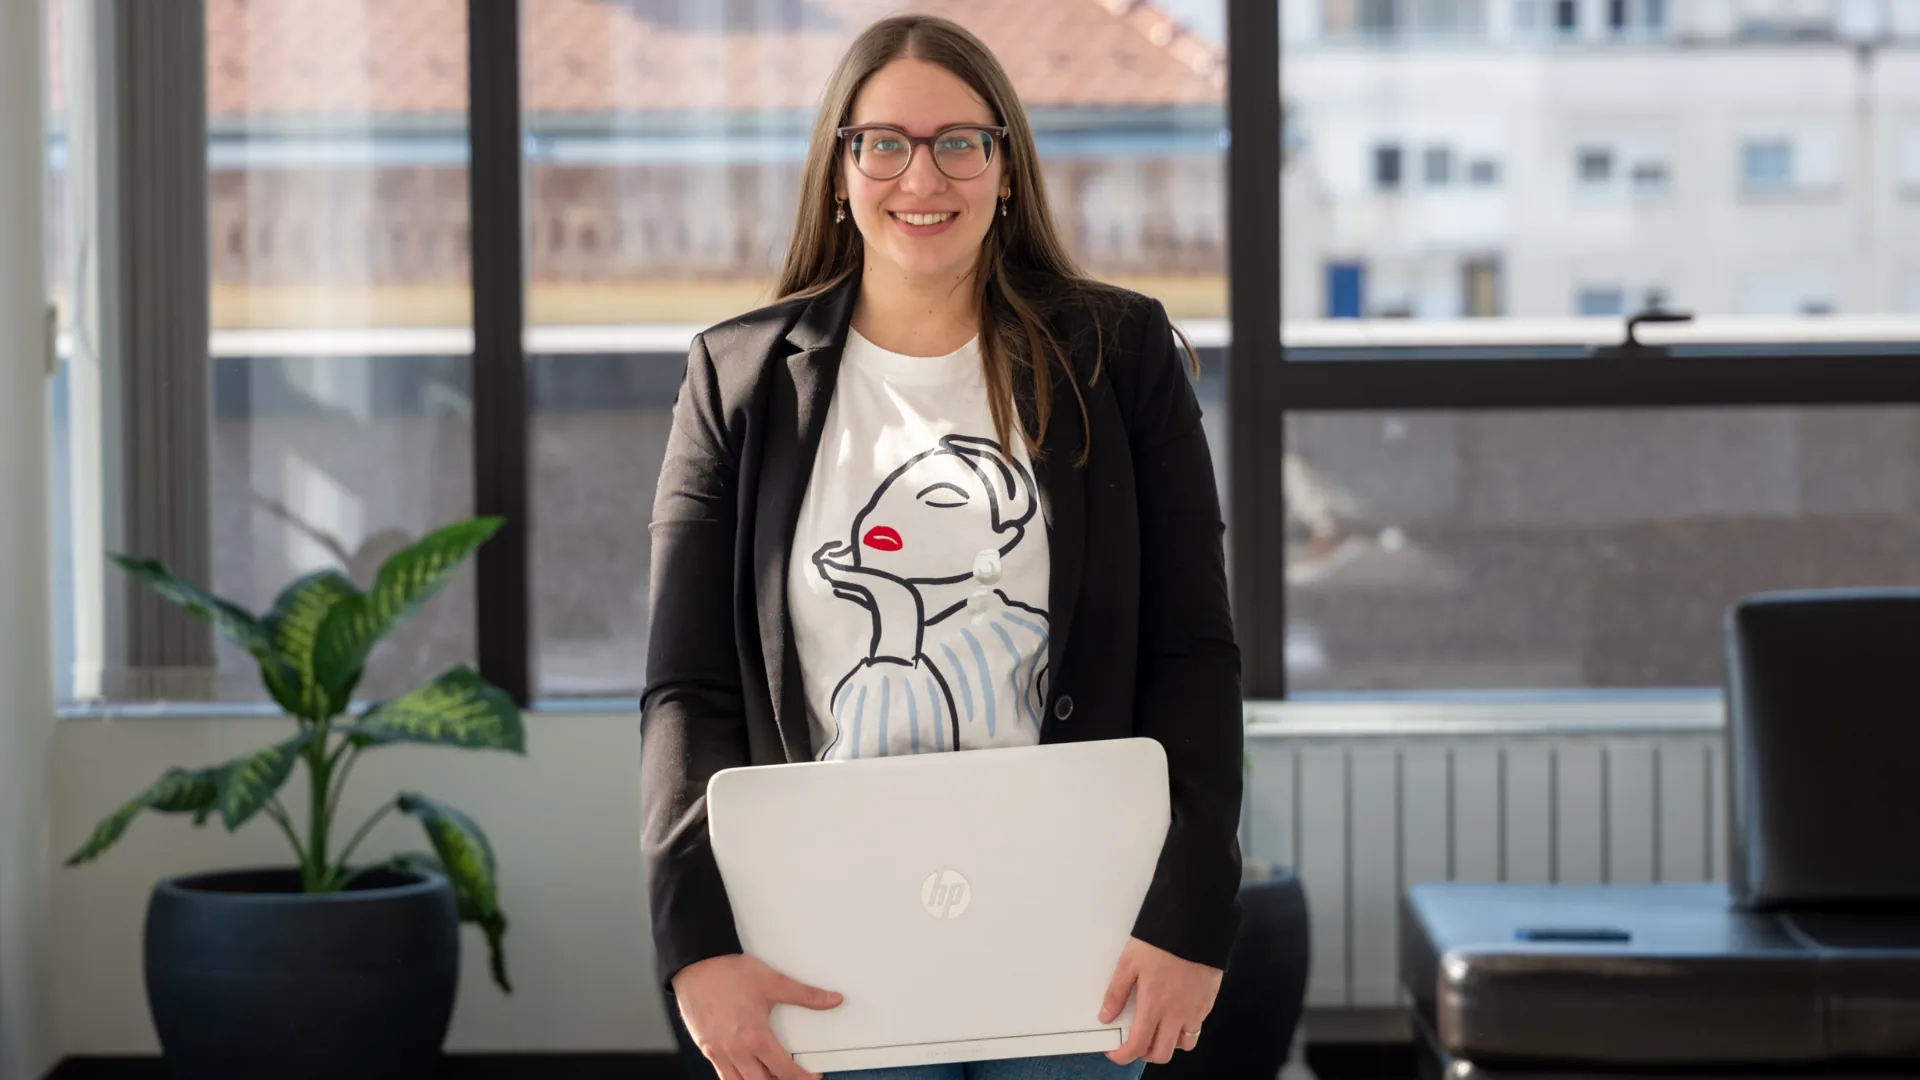
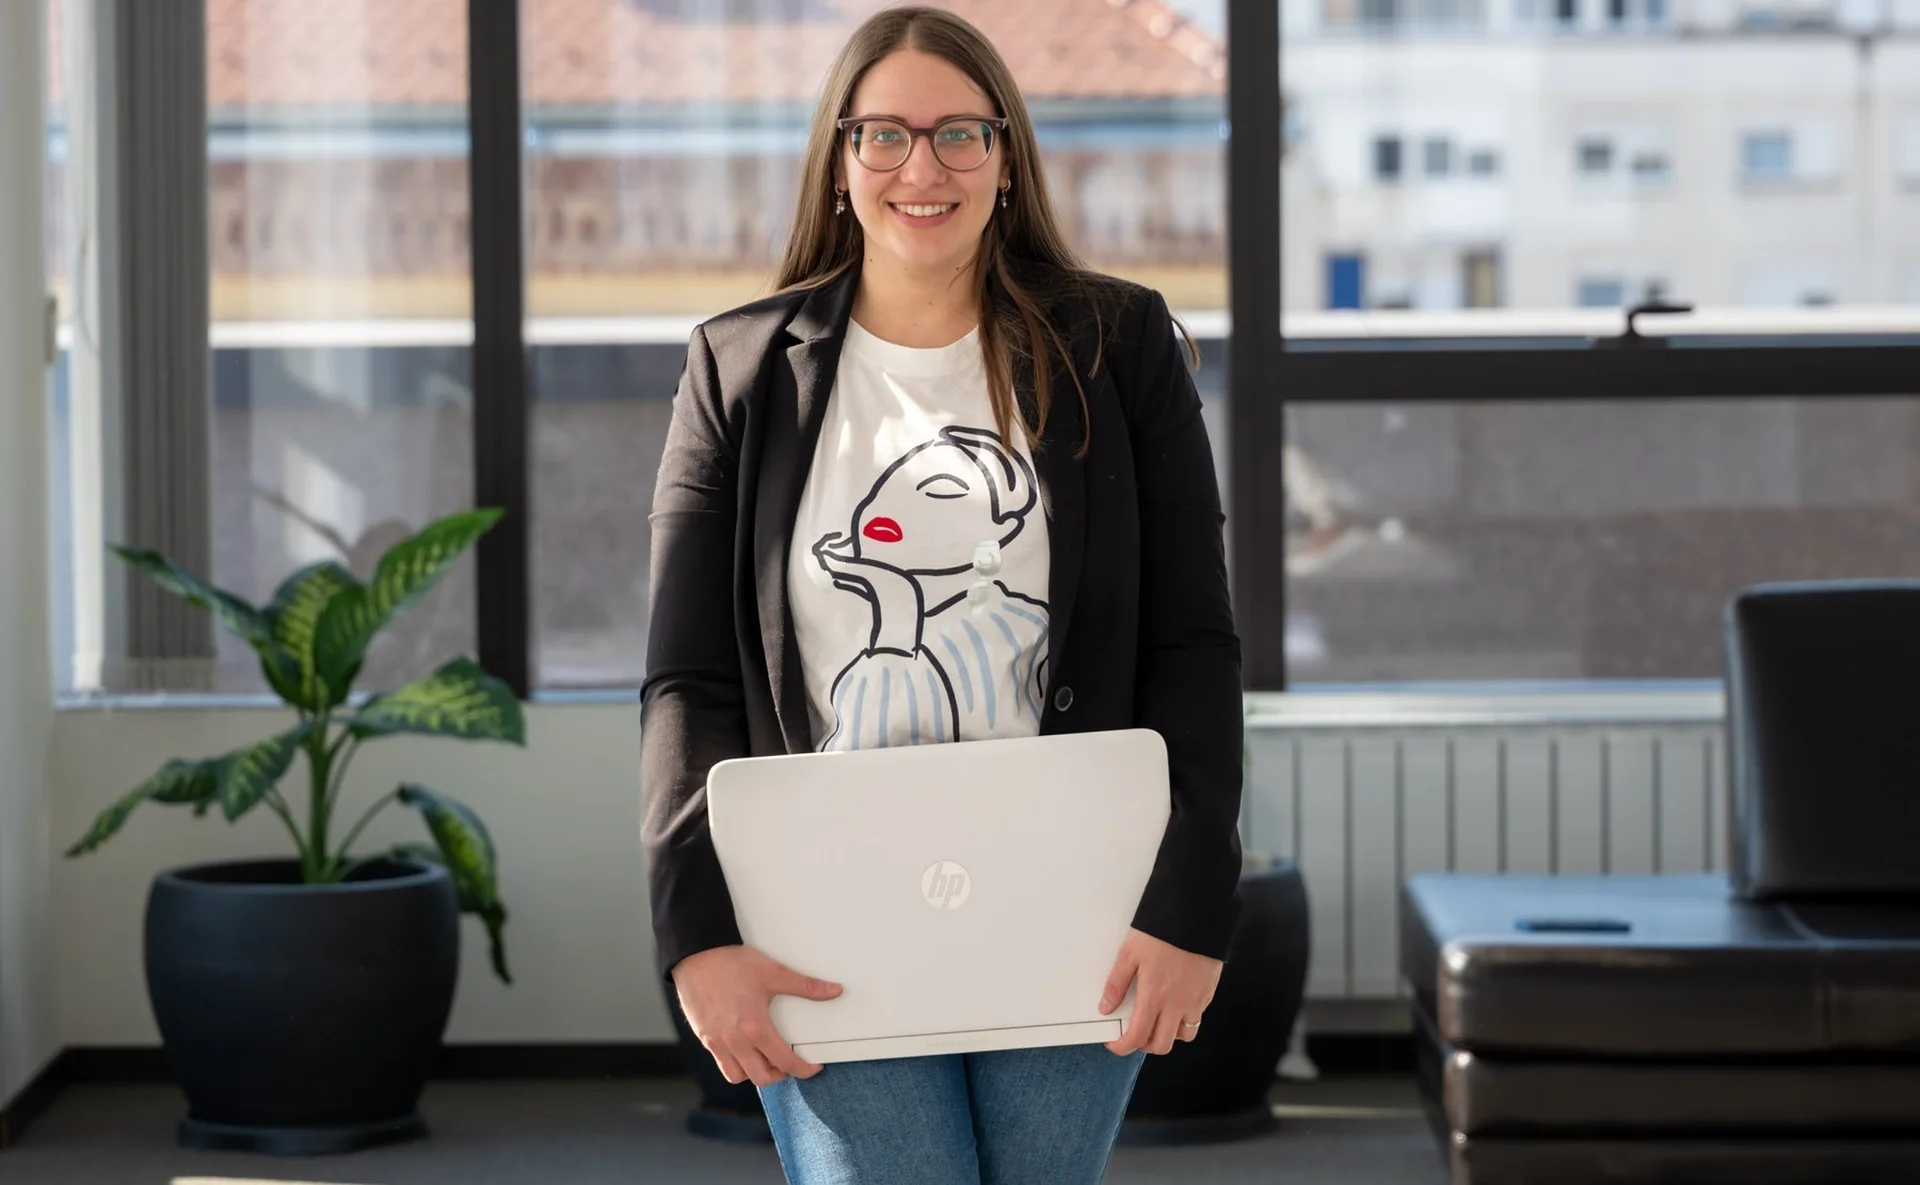
Extend homepage hero photo to show hands and improve copy contrast.
Regenerate the desktop crop so hands read clearly, raise the hero to the photo aspect ratio, strengthen side darken overlays, and keep 110+ beside the CTA.

diff --git a/css/main.css b/css/main.css
@@ -1217,20 +1217,20 @@ button {
   background:
     linear-gradient(
       90deg,
-      rgba(22, 16, 12, 0.22) 0%,
-      rgba(22, 16, 12, 0.12) 16%,
-      rgba(22, 16, 12, 0.04) 30%,
-      rgba(22, 16, 12, 0) 42%,
+      rgba(22, 16, 12, 0.42) 0%,
+      rgba(22, 16, 12, 0.26) 14%,
+      rgba(22, 16, 12, 0.1) 28%,
+      rgba(22, 16, 12, 0) 40%,
       rgba(22, 16, 12, 0) 58%,
-      rgba(22, 16, 12, 0.04) 70%,
-      rgba(22, 16, 12, 0.12) 84%,
-      rgba(22, 16, 12, 0.22) 100%
+      rgba(22, 16, 12, 0.1) 70%,
+      rgba(22, 16, 12, 0.28) 84%,
+      rgba(22, 16, 12, 0.46) 100%
     ),
     linear-gradient(
       180deg,
-      rgba(22, 16, 12, 0.06) 0%,
+      rgba(22, 16, 12, 0.1) 0%,
       rgba(22, 16, 12, 0) 42%,
-      rgba(22, 16, 12, 0.14) 100%
+      rgba(22, 16, 12, 0.18) 100%
     );
 }
 
@@ -1241,7 +1241,7 @@ button {
   position: absolute;
   top: 0;
   bottom: 0;
-  width: min(36%, 24rem);
+  width: min(40%, 27rem);
   pointer-events: none;
   backdrop-filter: none;
   -webkit-backdrop-filter: none;
@@ -1251,8 +1251,8 @@ button {
   left: 0;
   background: linear-gradient(
     90deg,
-    rgba(22, 16, 12, 0.2) 0%,
-    rgba(22, 16, 12, 0.1) 45%,
+    rgba(22, 16, 12, 0.38) 0%,
+    rgba(22, 16, 12, 0.2) 48%,
     rgba(22, 16, 12, 0) 100%
   );
 }
@@ -1261,8 +1261,8 @@ button {
   right: 0;
   background: linear-gradient(
     270deg,
-    rgba(22, 16, 12, 0.2) 0%,
-    rgba(22, 16, 12, 0.1) 45%,
+    rgba(22, 16, 12, 0.42) 0%,
+    rgba(22, 16, 12, 0.24) 48%,
     rgba(22, 16, 12, 0) 100%
   );
 }
@@ -1282,7 +1282,9 @@ button {
 .hero--photo-bg .hero__proof-num,
 .hero--photo-bg .hero__proof-label {
   color: #eae6e2; /* cream, never white */
-  text-shadow: 0 1px 8px rgba(0, 0, 0, 0.18);
+  text-shadow:
+    0 1px 2px rgba(0, 0, 0, 0.35),
+    0 2px 14px rgba(0, 0, 0, 0.28);
 }
 
 .hero--photo-bg .hero__rail--copy .hero__title {
@@ -1295,18 +1297,19 @@ button {
 
 @media (min-width: 960px) {
   /*
-   * Desktop hero: taller so hands + most of the laptop read in-frame,
-   * while object-position:center top keeps the head under the nav.
+   * Desktop hero: tall enough to keep head under nav AND show hands
+   * on the extended desktop crop (~1920×1185).
    */
   .hero--photo-bg .hero__stage {
-    height: clamp(41.25rem, 48vw, 46.25rem); /* ~660–740px */
-    min-height: clamp(41.25rem, 48vw, 46.25rem);
-    max-height: 46.25rem;
+    /* Match desktop crop aspect (~1920×1185) so hands stay in frame */
+    height: clamp(52rem, 61.72vw, 74rem);
+    min-height: clamp(52rem, 61.72vw, 74rem);
+    max-height: 74rem;
   }
 
   /*
    * Desktop uses monika-hero-office-desktop.
-   * Pin to top so added height reveals more of the laptop below.
+   * Pin to top so height reveals hands/laptop below the head.
    */
   .hero--photo-bg .hero__backdrop-fill img {
     object-position: center top;
@@ -1316,52 +1319,63 @@ button {
     background:
       linear-gradient(
         90deg,
-        rgba(22, 16, 12, 0.24) 0%,
-        rgba(22, 16, 12, 0.14) 14%,
-        rgba(22, 16, 12, 0.05) 28%,
+        rgba(22, 16, 12, 0.46) 0%,
+        rgba(22, 16, 12, 0.28) 12%,
+        rgba(22, 16, 12, 0.12) 26%,
         rgba(22, 16, 12, 0) 40%,
         rgba(22, 16, 12, 0) 56%,
-        rgba(22, 16, 12, 0.08) 68%,
-        rgba(22, 16, 12, 0.2) 84%,
-        rgba(22, 16, 12, 0.3) 100%
+        rgba(22, 16, 12, 0.14) 70%,
+        rgba(22, 16, 12, 0.34) 86%,
+        rgba(22, 16, 12, 0.5) 100%
       ),
       linear-gradient(
         180deg,
-        rgba(22, 16, 12, 0.05) 0%,
+        rgba(22, 16, 12, 0.1) 0%,
         rgba(22, 16, 12, 0) 45%,
-        rgba(22, 16, 12, 0.12) 100%
+        rgba(22, 16, 12, 0.16) 100%
       );
   }
 
   /* Soft local darken behind rails — no CSS blur */
   .hero--photo-bg .hero__backdrop-shade::before {
-    width: min(38%, 26rem);
+    width: min(42%, 28rem);
     backdrop-filter: none;
     -webkit-backdrop-filter: none;
     -webkit-mask-image: none;
     mask-image: none;
     background: linear-gradient(
       90deg,
-      rgba(22, 16, 12, 0.22) 0%,
-      rgba(22, 16, 12, 0.1) 48%,
+      rgba(22, 16, 12, 0.4) 0%,
+      rgba(22, 16, 12, 0.2) 50%,
       rgba(22, 16, 12, 0) 100%
     );
   }
 
   /* Stronger soft darken behind right copy / CTA / 110+ */
   .hero--photo-bg .hero__backdrop-shade::after {
-    width: min(42%, 30rem);
+    width: min(46%, 32rem);
     backdrop-filter: none;
     -webkit-backdrop-filter: none;
     -webkit-mask-image: none;
     mask-image: none;
     background: linear-gradient(
       270deg,
-      rgba(22, 16, 12, 0.32) 0%,
-      rgba(22, 16, 12, 0.2) 42%,
-      rgba(22, 16, 12, 0.08) 72%,
+      rgba(22, 16, 12, 0.5) 0%,
+      rgba(22, 16, 12, 0.32) 40%,
+      rgba(22, 16, 12, 0.14) 70%,
       rgba(22, 16, 12, 0) 100%
     );
+  }
+
+  /* Keep 110+ on the same row as the CTA */
+  .hero--photo-bg .hero__rail--meta {
+    max-width: 18rem;
+  }
+
+  .hero--photo-bg .hero__cta-row {
+    flex-wrap: nowrap;
+    align-items: center;
+    gap: 0.85rem 1rem;
   }
 
   /* Slightly larger left hero title on desktop photo hero */

diff --git a/css/components.css b/css/components.css
@@ -851,20 +851,20 @@
   background:
     linear-gradient(
       90deg,
-      rgba(22, 16, 12, 0.22) 0%,
-      rgba(22, 16, 12, 0.12) 16%,
-      rgba(22, 16, 12, 0.04) 30%,
-      rgba(22, 16, 12, 0) 42%,
+      rgba(22, 16, 12, 0.42) 0%,
+      rgba(22, 16, 12, 0.26) 14%,
+      rgba(22, 16, 12, 0.1) 28%,
+      rgba(22, 16, 12, 0) 40%,
       rgba(22, 16, 12, 0) 58%,
-      rgba(22, 16, 12, 0.04) 70%,
-      rgba(22, 16, 12, 0.12) 84%,
-      rgba(22, 16, 12, 0.22) 100%
+      rgba(22, 16, 12, 0.1) 70%,
+      rgba(22, 16, 12, 0.28) 84%,
+      rgba(22, 16, 12, 0.46) 100%
     ),
     linear-gradient(
       180deg,
-      rgba(22, 16, 12, 0.06) 0%,
+      rgba(22, 16, 12, 0.1) 0%,
       rgba(22, 16, 12, 0) 42%,
-      rgba(22, 16, 12, 0.14) 100%
+      rgba(22, 16, 12, 0.18) 100%
     );
 }
 
@@ -875,7 +875,7 @@
   position: absolute;
   top: 0;
   bottom: 0;
-  width: min(36%, 24rem);
+  width: min(40%, 27rem);
   pointer-events: none;
   backdrop-filter: none;
   -webkit-backdrop-filter: none;
@@ -885,8 +885,8 @@
   left: 0;
   background: linear-gradient(
     90deg,
-    rgba(22, 16, 12, 0.2) 0%,
-    rgba(22, 16, 12, 0.1) 45%,
+    rgba(22, 16, 12, 0.38) 0%,
+    rgba(22, 16, 12, 0.2) 48%,
     rgba(22, 16, 12, 0) 100%
   );
 }
@@ -895,8 +895,8 @@
   right: 0;
   background: linear-gradient(
     270deg,
-    rgba(22, 16, 12, 0.2) 0%,
-    rgba(22, 16, 12, 0.1) 45%,
+    rgba(22, 16, 12, 0.42) 0%,
+    rgba(22, 16, 12, 0.24) 48%,
     rgba(22, 16, 12, 0) 100%
   );
 }
@@ -916,7 +916,9 @@
 .hero--photo-bg .hero__proof-num,
 .hero--photo-bg .hero__proof-label {
   color: #eae6e2; /* cream, never white */
-  text-shadow: 0 1px 8px rgba(0, 0, 0, 0.18);
+  text-shadow:
+    0 1px 2px rgba(0, 0, 0, 0.35),
+    0 2px 14px rgba(0, 0, 0, 0.28);
 }
 
 .hero--photo-bg .hero__rail--copy .hero__title {
@@ -929,18 +931,19 @@
 
 @media (min-width: 960px) {
   /*
-   * Desktop hero: taller so hands + most of the laptop read in-frame,
-   * while object-position:center top keeps the head under the nav.
+   * Desktop hero: tall enough to keep head under nav AND show hands
+   * on the extended desktop crop (~1920×1185).
    */
   .hero--photo-bg .hero__stage {
-    height: clamp(41.25rem, 48vw, 46.25rem); /* ~660–740px */
-    min-height: clamp(41.25rem, 48vw, 46.25rem);
-    max-height: 46.25rem;
+    /* Match desktop crop aspect (~1920×1185) so hands stay in frame */
+    height: clamp(52rem, 61.72vw, 74rem);
+    min-height: clamp(52rem, 61.72vw, 74rem);
+    max-height: 74rem;
   }
 
   /*
    * Desktop uses monika-hero-office-desktop.
-   * Pin to top so added height reveals more of the laptop below.
+   * Pin to top so height reveals hands/laptop below the head.
    */
   .hero--photo-bg .hero__backdrop-fill img {
     object-position: center top;
@@ -950,52 +953,63 @@
     background:
       linear-gradient(
         90deg,
-        rgba(22, 16, 12, 0.24) 0%,
-        rgba(22, 16, 12, 0.14) 14%,
-        rgba(22, 16, 12, 0.05) 28%,
+        rgba(22, 16, 12, 0.46) 0%,
+        rgba(22, 16, 12, 0.28) 12%,
+        rgba(22, 16, 12, 0.12) 26%,
         rgba(22, 16, 12, 0) 40%,
         rgba(22, 16, 12, 0) 56%,
-        rgba(22, 16, 12, 0.08) 68%,
-        rgba(22, 16, 12, 0.2) 84%,
-        rgba(22, 16, 12, 0.3) 100%
+        rgba(22, 16, 12, 0.14) 70%,
+        rgba(22, 16, 12, 0.34) 86%,
+        rgba(22, 16, 12, 0.5) 100%
       ),
       linear-gradient(
         180deg,
-        rgba(22, 16, 12, 0.05) 0%,
+        rgba(22, 16, 12, 0.1) 0%,
         rgba(22, 16, 12, 0) 45%,
-        rgba(22, 16, 12, 0.12) 100%
+        rgba(22, 16, 12, 0.16) 100%
       );
   }
 
   /* Soft local darken behind rails — no CSS blur */
   .hero--photo-bg .hero__backdrop-shade::before {
-    width: min(38%, 26rem);
+    width: min(42%, 28rem);
     backdrop-filter: none;
     -webkit-backdrop-filter: none;
     -webkit-mask-image: none;
     mask-image: none;
     background: linear-gradient(
       90deg,
-      rgba(22, 16, 12, 0.22) 0%,
-      rgba(22, 16, 12, 0.1) 48%,
+      rgba(22, 16, 12, 0.4) 0%,
+      rgba(22, 16, 12, 0.2) 50%,
       rgba(22, 16, 12, 0) 100%
     );
   }
 
   /* Stronger soft darken behind right copy / CTA / 110+ */
   .hero--photo-bg .hero__backdrop-shade::after {
-    width: min(42%, 30rem);
+    width: min(46%, 32rem);
     backdrop-filter: none;
     -webkit-backdrop-filter: none;
     -webkit-mask-image: none;
     mask-image: none;
     background: linear-gradient(
       270deg,
-      rgba(22, 16, 12, 0.32) 0%,
-      rgba(22, 16, 12, 0.2) 42%,
-      rgba(22, 16, 12, 0.08) 72%,
+      rgba(22, 16, 12, 0.5) 0%,
+      rgba(22, 16, 12, 0.32) 40%,
+      rgba(22, 16, 12, 0.14) 70%,
       rgba(22, 16, 12, 0) 100%
     );
+  }
+
+  /* Keep 110+ on the same row as the CTA */
+  .hero--photo-bg .hero__rail--meta {
+    max-width: 18rem;
+  }
+
+  .hero--photo-bg .hero__cta-row {
+    flex-wrap: nowrap;
+    align-items: center;
+    gap: 0.85rem 1rem;
   }
 
   /* Slightly larger left hero title on desktop photo hero */

diff --git a/index.html b/index.html
@@ -28,7 +28,7 @@
       rel="stylesheet"
     />
 
-    <link rel="stylesheet" href="css/main.css?v=hero-extend-1" />
+    <link rel="stylesheet" href="css/main.css?v=hero-hands-2" />
 
     <script>
       document.documentElement.classList.add("js");
@@ -85,12 +85,12 @@
           <picture class="hero__backdrop-fill">
             <source
               media="(min-width: 960px)"
-              srcset="assets/images/monika-hero-office-desktop.webp?v=laptop-1"
+              srcset="assets/images/monika-hero-office-desktop.webp?v=hands-2"
               type="image/webp"
             />
             <source
               media="(min-width: 960px)"
-              srcset="assets/images/monika-hero-office-desktop.jpg?v=laptop-1"
+              srcset="assets/images/monika-hero-office-desktop.jpg?v=hands-2"
               type="image/jpeg"
             />
             <source srcset="assets/images/monika-hero-office-v2.webp?v=dual-1" type="image/webp" />
